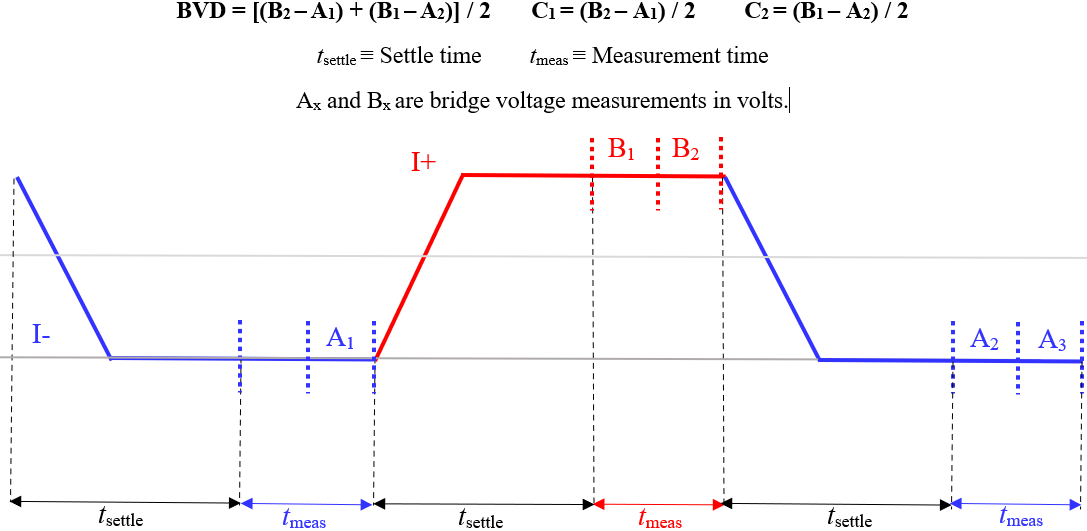
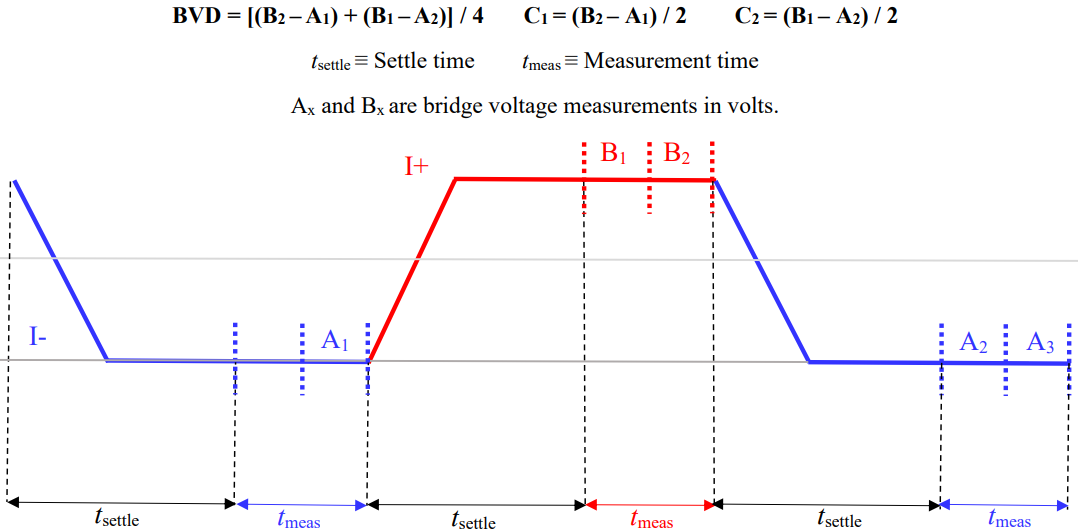
ENH: Add show/hide tooltip submenu under help menu, fix timing diagram equation, update to 1.9

diff --git a/Magnicon-Offline-Analyzer.py b/Magnicon-Offline-Analyzer.py
@@ -29,7 +29,7 @@ import mystat
 from env import env
 
 # python globals
-__version__ = '1.8' # Program version string
+__version__ = '1.9' # Program version string
 red_style   = "color: white; background-color: red"
 blue_style  = "color: white; background-color: blue"
 green_style = "color: white; background-color: green"
@@ -109,7 +109,7 @@ class timingDiagramWindow(QWidget):
            sampling routing
         """
         super(QWidget, self).__init__()
-        self.setFixedSize(1120, 550)
+        self.setFixedSize(1100, 550)
         lbl_timing_diagram = QLabel(self)
         lbl_timing_diagram.setPixmap(QPixmap(base_dir + r"\icons\timing_diagram.PNG"))
         lbl_timing_diagram.show()
@@ -176,6 +176,11 @@ class Ui_mainWindow(object):
         self.timing_action = QAction("&Timing Diagram")
         self.timing_action.setStatusTip("Show timing diagram for CCC Measurements")
         self.timing_action.triggered.connect(self._showTimingDiagram)
+        
+        self.tooltip_action = QAction("&Show tooltip")
+        self.tooltip_action.setStatusTip("Show/hide tooltip")
+        self.tooltip_action.setCheckable(True)
+        self.tooltip_action.triggered.connect(self._showToolTip)
         
         mainWindow.setCentralWidget(self.centralwidget)
         self.menubar = QMenuBar(parent=mainWindow)
@@ -264,9 +269,9 @@ class Ui_mainWindow(object):
         self.file_menu.addAction(self.close_action)
         # self.file_menu.setShortcutEnabled(True)
         self.help_menu = self.menubar.addMenu("&Help")
+        self.help_menu.addAction(self.tooltip_action)
         self.help_menu.addAction(self.about_action)
         self.help_menu.addAction(self.timing_action)
-        
 
     def _about(self,) -> None:
         # print('Class: Ui_mainWindow, In function: ' + inspect.stack()[0][3])
@@ -276,6 +281,14 @@ class Ui_mainWindow(object):
     def _showTimingDiagram(self, ) -> None:
         self.timing_window = timingDiagramWindow()
         self.timing_window.show()
+    
+    def _showToolTip(self, ) -> None:
+        if self.tooltip_action.isChecked():
+            self.show_tooltip()
+            self.tooltip_action.setText("Hide Tooltip")
+        else:
+            self.hide_tooltip()
+            self.tooltip_action.setText("Show Tooltip")
 
     def closeEvent(self, event):
         mainWindow.close()
@@ -807,9 +820,8 @@ class Ui_mainWindow(object):
         self.le_error.setReadOnly(True)
         self.le_error.setStyleSheet(
                 """QLineEdit { background-color: rgb(215, 214, 213); color: red; font-weight: bold }""")
-        self.show_tooltip()
 
-    def remove_tooltip(self) -> None:
+    def hide_tooltip(self) -> None:
         self.R1SNLineEdit.setToolTip('')
         self.R2SNLineEdit.setToolTip('')
         self.AppVoltLineEdit.setToolTip('')
@@ -866,6 +878,18 @@ class Ui_mainWindow(object):
         self.RatioMeanLineEdit.setToolTip('')
         self.SampUsedLineEdit.setToolTip('')
         self.le_error.setToolTip('')
+        self.MagElecComboBox.setToolTip('')
+        self.ProbeComboBox.setToolTip('')
+        self.R1OilDepthSpinBox.setToolTip('')
+        self.R2OilDepthSpinBox.setToolTip('')
+        self.folderToolButton.setToolTip('')
+        self.btn_temperature1.setToolTip('')
+        self.btn_temperature2.setToolTip('')
+        self.SquidFeedBut.setToolTip('')
+        self.CurrentBut.setToolTip('')
+        self.StandardRBut.setToolTip('')
+        self.MDSSButton.setToolTip('')
+        self.saveButton.setToolTip('')
 
     def show_tooltip(self) -> None:
         self.R1SNLineEdit.setToolTip('Serial number for primary (R<sub>1</sub>) resistor')
@@ -903,11 +927,11 @@ class Ui_mainWindow(object):
         self.RelHumLineEdit.setToolTip('Relative Humidity of the CCC Drive Electronics Chassis')
         self.le_start_time.setToolTip('Start date and time of the measurement')
         self.le_end_time.setToolTip('End date and time of the measurement')
-        self.VMeanLineEdit.setToolTip('Mean of the bridge voltage difference calculated from the raw .txt file')
+        self.VMeanLineEdit.setToolTip('Mean of the bridge voltage difference (C<sub>1</cub> + C<sub>2</sub>)/2 calculated from the raw .txt file')
         self.StdDevLineEdit.setToolTip('Standard deviation of the bridge voltage difference calculated from the raw .txt file')
         self.StdDevMeanLineEdit.setToolTip('Standard deviation of the mean of the bridge voltage difference calculated from the raw .txt file')
-        self.C1LineEdit.setToolTip('')
-        self.C2LineEdit.setToolTip('')
+        self.C1LineEdit.setToolTip('Bridge voltage difference measured after t<sub>ramp</sub> + t<sub>settle</sub>  + t<sub>meas</sub>/2')
+        self.C2LineEdit.setToolTip('Bridge voltage difference measured after t<sub>ramp</sub> + t<sub>settle</sub>')
         self.VMeanChkLineEdit.setToolTip('Mean of the bridge voltage difference calculated from the _bvd.txt file')
         self.StdDevChkLineEdit.setToolTip('Standard deviation of the bridge voltage difference calculated from the _bvd.txt file')
         self.StdDevMeanChkLineEdit.setToolTip('Standard deviation of the mean of the bridge voltage difference calculated from the _bvd.txt file')
@@ -924,6 +948,19 @@ class Ui_mainWindow(object):
         self.RatioMeanLineEdit.setToolTip('Mean of the Ratio  R<sub>1</sub>/R<sub>2</sub>')
         self.SampUsedLineEdit.setToolTip('Set the number of used mesurements in every half cycle')
         self.le_error.setToolTip('R Mean - R Mean Chk')
+        
+        self.MagElecComboBox.setToolTip('S/N of the CCCDrive')
+        self.ProbeComboBox.setToolTip('Type or S/N of probe')
+        self.R1OilDepthSpinBox.setToolTip('Set the oil depth of the primary resistor')
+        self.R2OilDepthSpinBox.setToolTip('Set the oil depth of the secondary resistor')
+        self.folderToolButton.setToolTip('Select the _bvd.txt file to load')
+        self.btn_temperature1.setToolTip('Select the folder for the primary resistors environment')
+        self.btn_temperature2.setToolTip('Select the folder for the secondary resistors environment')
+        self.SquidFeedBut.setToolTip('Sets the SQUID feedback polarity')
+        self.CurrentBut.setToolTip('Set which side/arm the SQUID feedback is applied')
+        self.StandardRBut.setToolTip('Set the primary or secondary resistor as standard')
+        self.MDSSButton.setToolTip('Click to save pipe seperated results file')
+        self.saveButton.setToolTip('Save a pipe seperated results file')
         
     def BVDTabSetUp(self) -> None:
         # print('Class: Ui_mainWindow, In function: ' + inspect.stack()[0][3])

diff --git a/__init__.py b/__init__.py
@@ -7,7 +7,7 @@ __maintainer__ 	=       "Alireza Panna"
 __email__ 		=       "alireza.panna@nist.gov"
 __status__ 		=       "Stable"
 __date__        =       "06/2023"
-__version__ 	=       "1.8"
+__version__ 	=       "1.9"
 __ChangeLog__   =       """
                         031224:     FIX: Make R1STPPPM and R2STPPPM linedits editable so user can update predicted value, add requirements.txt
                                     for building project, switch to using allantools for plotting allan deviations since its faster, add 
@@ -23,4 +23,5 @@ __ChangeLog__   =       """
                                          with MDSS Save button, update to version 1.7
                         041024:     FIX: Remove unused imports, add more precision digits to temperature line edits, fix issues with checks and add some 
                                          tooltips, update to 1.8
+                        041124:     ENh: Add show/hide tooltip submenu under help menu, fix timing diagram equation, update to 1.9
                         """
